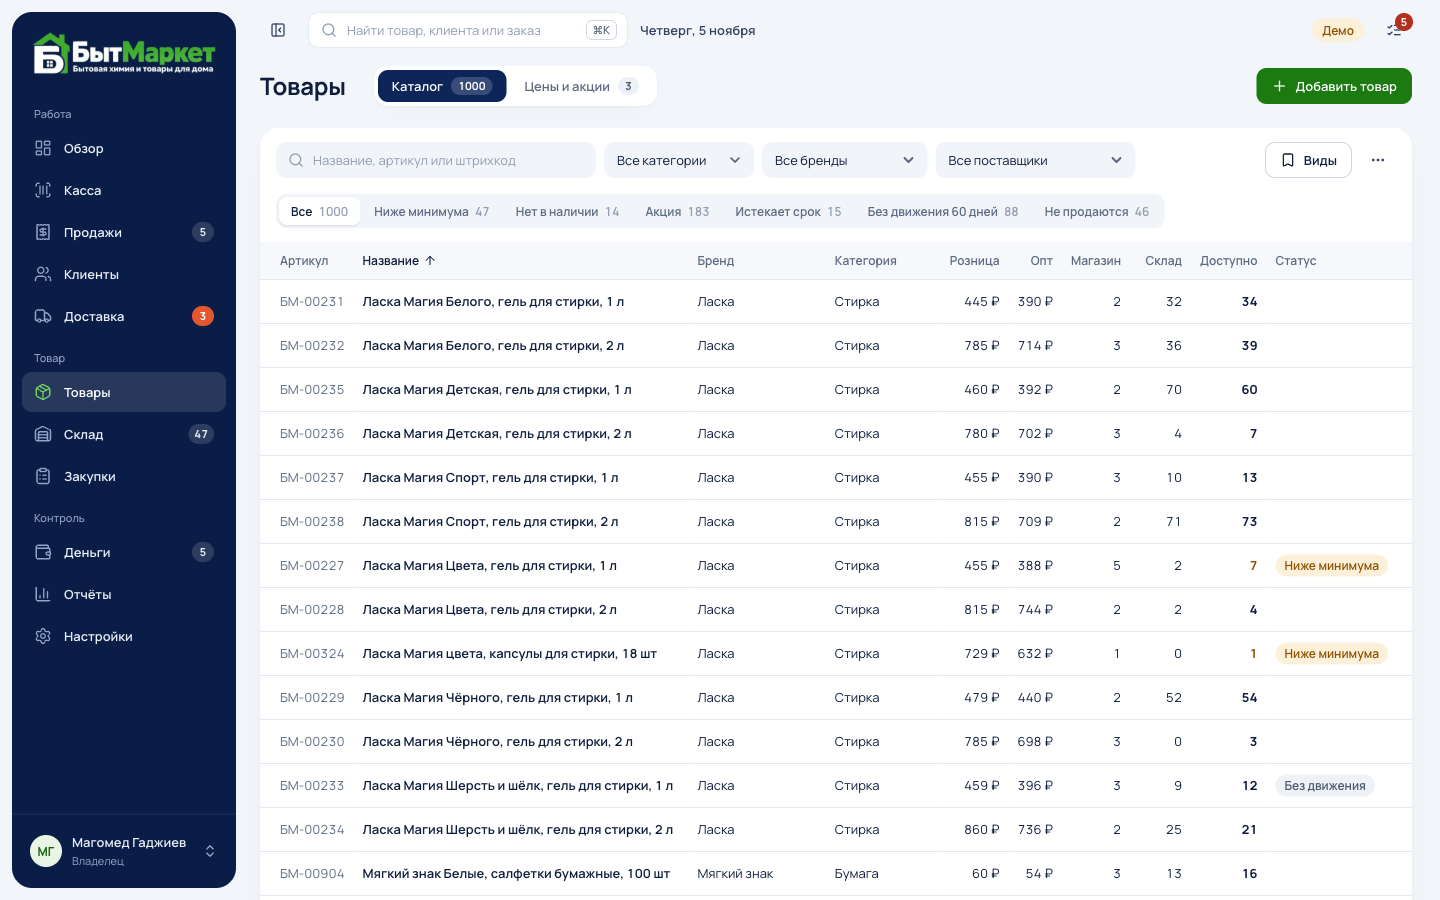
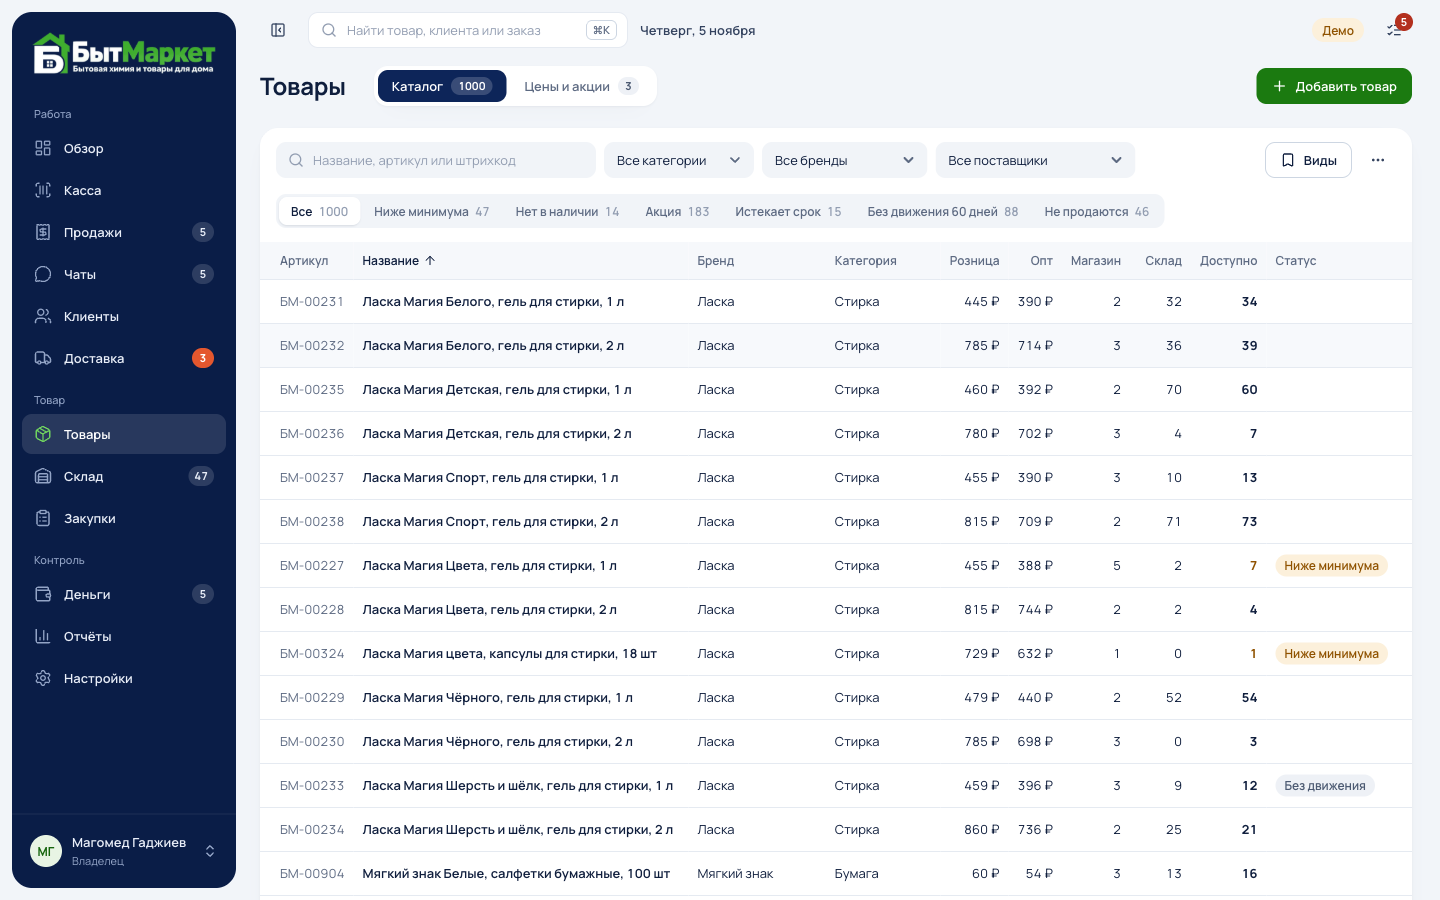
Чаты — отдельный пункт меню со счётчиком новых сообщений
Раньше переписка была вкладкой внутри «Продаж» и её трудно было найти.
Старый адрес /sales/chats ведёт в новый раздел с выбранным клиентом.

diff --git a/web/src/sections/sales/ChatsPage.tsx b/web/src/sections/sales/ChatsPage.tsx
@@ -1,7 +1,7 @@
 /* Вкладка «Чаты»: WhatsApp магазина. Живая переписка, автосообщения о заказах, вложения,
    разбор заказа из сообщения клиента. Пример подключения: сообщения хранятся в программе и наружу не уходят. */
 import { useEffect, useMemo, useRef, useState } from 'react';
-import { useSearchParams } from 'react-router-dom';
+import { useNavigate, useSearchParams } from 'react-router-dom';
 import { ArrowLeft, BellRing, Check, CheckCheck, FileSpreadsheet, FileText, ListPlus, MessageCircle, Paperclip, Plus, Send, Store, Zap } from 'lucide-react';
 import type { Chat, ChatMessage, ID } from '../../data/types';
 import { CLIENT_SEGMENT_NAMES } from '../../data/types';
@@ -16,7 +16,6 @@ import { NewOrderDrawer } from './NewOrderDrawer';
 import { useSalesOrders } from './salesScope';
 import { capitalize, fixNo, norm, useIsPhone } from './lib';
 import { shownOverdue } from './parts';
-import { useTabCounts } from './tabCounts';
 import { FileChip, SendInvoiceModal, SendWhatsAppModal, type SendWhatsAppProps } from './SendInvoiceModal';
 import { WA_AUTO_META, actFile, priceFile, textReminder, waReadState } from '../../data/whatsapp';
 import { parseOrderText, type ParsedOrder } from '../../data/orderText';
@@ -40,7 +39,7 @@ export default function ChatsPage() {
   const { me, can, role } = useSession();
   const { chats, isMine } = useScoped();
   const isManager = role === 'manager';
-  const counts = useTabCounts();
+  const navigate = useNavigate();
   const phone = useIsPhone();
   const openEntity = useOpenEntity();
   const [params, setParams] = useSearchParams();
@@ -166,7 +165,17 @@ export default function ChatsPage() {
 
   return (
     <>
-      <PageHeader section="sales" counts={counts} />
+      <PageHeader
+        section="chats"
+        actions={
+          <>
+            <Chip tone="green" icon={<MessageCircle />}>
+              WhatsApp {fmt.phone(wa.phone)}
+            </Chip>
+            {role === 'owner' ? <Button onClick={() => navigate('/settings/integrations')}>Настройки WhatsApp</Button> : null}
+          </>
+        }
+      />
       {!wa.connected ? (
         <Notice tone="warn" title="WhatsApp отключён">
           Новые сообщения не приходят, автосообщения клиентам не отправляются. Подключение — в настройках, раздел «Подключения».

diff --git a/web/src/sections/clients/ClientDrawer.tsx b/web/src/sections/clients/ClientDrawer.tsx
@@ -1,7 +1,6 @@
 import { useMemo, useState, type ReactNode } from 'react';
 import { CalendarPlus, ExternalLink, ListPlus, MapPin, MessageCircle, Pencil, Phone, Plus, ShoppingCart, UserRound, Wallet } from 'lucide-react';
 import { useNavigate } from 'react-router-dom';
-import { tabsFor } from '../../shell/nav';
 import type { EntityDrawerProps } from '../../shell/entities';
 import { EntityLink, useOpenEntity } from '../../shell/entities';
 import { TaskModal } from '../../shell/TaskModal';
@@ -47,7 +46,7 @@ type TabKey = 'overview' | 'orders' | 'payments' | 'points' | 'visits' | 'tasks'
 export default function EntityDrawer({ id, onClose }: EntityDrawerProps) {
   const db = useDB();
   const version = useDBVersion();
-  const { me, role, can } = useSession();
+  const { me, role, can, sees } = useSession();
   const navigate = useNavigate();
   const scoped = useScoped();
   const phone = useIsPhone();
@@ -97,7 +96,7 @@ export default function EntityDrawer({ id, onClose }: EntityDrawerProps) {
   const canEdit = can('editClients');
   const tel = telUrl(c.phone);
   // переписку открывают те, у кого есть вкладка «Чаты»: владелец, менеджер, представитель
-  const canChat = db.settings.whatsapp.connected && !!c.phone && tabsFor('sales', role).some((t) => t.key === 'chats');
+  const canChat = db.settings.whatsapp.connected && !!c.phone && sees('chats');
   const hasChat = db.chats.some((x) => x.clientId === c.id);
 
   const secondary = [
@@ -152,7 +151,7 @@ export default function EntityDrawer({ id, onClose }: EntityDrawerProps) {
           </a>
         ) : null}
         {canChat ? (
-          <button type="button" className="row cl-tel cl-wa" style={{ gap: 6 }} onClick={() => navigate(`/sales/chats?client=${c.id}`)}>
+          <button type="button" className="row cl-tel cl-wa" style={{ gap: 6 }} onClick={() => navigate(`/chats?client=${c.id}`)}>
             <MessageCircle size={15} />
             {hasChat ? 'Переписка в WhatsApp' : 'Написать в WhatsApp'}
           </button>

diff --git a/web/src/roles/roles.ts b/web/src/roles/roles.ts
@@ -5,6 +5,7 @@ export type SectionKey =
   | 'overview'
   | 'register'
   | 'sales'
+  | 'chats'
   | 'clients'
   | 'products'
   | 'stock'
@@ -62,7 +63,7 @@ export interface RoleMeta {
   perms: Perm[];
 }
 
-const ALL_SECTIONS: SectionKey[] = ['overview', 'register', 'sales', 'clients', 'products', 'stock', 'purchases', 'money', 'delivery', 'reports', 'settings'];
+const ALL_SECTIONS: SectionKey[] = ['overview', 'register', 'sales', 'chats', 'clients', 'products', 'stock', 'purchases', 'money', 'delivery', 'reports', 'settings'];
 
 const ALL_PERMS: Perm[] = [
   'seeCost', 'seeProfit', 'editPrices', 'editCatalog', 'editClients', 'allClients', 'createOrder', 'createRequest', 'confirmOrder', 'cancelOrder',
@@ -99,7 +100,7 @@ export const ROLES: Record<RoleKey, RoleMeta> = {
     about: 'Свои оптовые клиенты, заказы, резервы и оплаты',
     sees: 'своих клиентов, их заказы, долги и доставки',
     mobile: false,
-    sections: ['overview', 'sales', 'clients', 'products', 'delivery', 'money'],
+    sections: ['overview', 'sales', 'chats', 'clients', 'products', 'delivery', 'money'],
     perms: ['editClients', 'createOrder', 'createRequest', 'confirmOrder', 'cancelOrder', 'shipOrder', 'acceptPayment', 'planVisits', 'export'],
   },
   rep: {
@@ -109,7 +110,7 @@ export const ROLES: Record<RoleKey, RoleMeta> = {
     about: 'Мой день: визиты по точкам, заявки, долги клиентов',
     sees: 'только закреплённые точки и свои заявки',
     mobile: true,
-    sections: ['overview', 'clients', 'sales', 'products'],
+    sections: ['overview', 'clients', 'sales', 'chats', 'products'],
     perms: ['createRequest', 'planVisits'],
   },
   accountant: {

diff --git a/web/src/sections/sales/routes.tsx b/web/src/sections/sales/routes.tsx
@@ -1,24 +1,28 @@
 import { lazy, Suspense } from 'react';
-import { Navigate, Route, Routes } from 'react-router-dom';
+import { Navigate, Route, Routes, useLocation } from 'react-router-dom';
 import { useSession } from '../../roles/session';
 import { SectionLoading } from '../../shell/SectionFrame';
 import OrdersPage from './OrdersPage';
 import './sales.css';
 
 const ReturnsPage = lazy(() => import('./ReturnsPage'));
-const ChatsPage = lazy(() => import('./ChatsPage'));
 
-/** Раздел «Продажи»: Заказы · Возвраты · Чаты (вкладки по ролям настроены в PageHeader). */
+/** Старый адрес вкладки «Чаты» ведёт в отдельный раздел, с выбранным клиентом. */
+function ToChats() {
+  const { search } = useLocation();
+  return <Navigate to={`/chats${search}`} replace />;
+}
+
+/** Раздел «Продажи»: Заказы · Возвраты (вкладки по ролям настроены в PageHeader). Чаты — отдельный раздел /chats. */
 export default function Section() {
   const { role } = useSession();
   const returns = role === 'owner' || role === 'manager' || role === 'accountant';
-  const chats = role === 'owner' || role === 'manager' || role === 'rep';
   return (
     <Suspense fallback={<SectionLoading />}>
       <Routes>
         <Route index element={<OrdersPage />} />
         <Route path="returns" element={returns ? <ReturnsPage /> : <Navigate to="/sales" replace />} />
-        <Route path="chats" element={chats ? <ChatsPage /> : <Navigate to="/sales" replace />} />
+        <Route path="chats" element={<ToChats />} />
         <Route path="*" element={<Navigate to="/sales" replace />} />
       </Routes>
     </Suspense>

diff --git a/web/src/shell/nav.ts b/web/src/shell/nav.ts
@@ -1,6 +1,6 @@
-/* Меню: 11 пунктов, вкладки внутри разделов. Утверждено в docs/10-audit-and-plan.md. */
+/* Меню: 12 пунктов, вкладки внутри разделов. Утверждено в docs/10-audit-and-plan.md; «Чаты» вынесены из «Продаж» отдельным пунктом (шаг 6). */
 import type { LucideIcon } from 'lucide-react';
-import { BarChart3, ClipboardList, LayoutDashboard, Package, Receipt, ScanBarcode, Settings, Truck, Users, Wallet, Warehouse } from 'lucide-react';
+import { BarChart3, ClipboardList, LayoutDashboard, MessageCircle, Package, Receipt, ScanBarcode, Settings, Truck, Users, Wallet, Warehouse } from 'lucide-react';
 import type { RoleKey } from '../data/types';
 import type { SectionKey } from '../roles/roles';
 
@@ -53,8 +53,15 @@ export const SECTIONS: SectionDef[] = [
     tabs: [
       { key: 'orders', label: 'Заказы', path: '/sales' },
       { key: 'returns', label: 'Возвраты', path: '/sales/returns', roles: ['owner', 'manager', 'accountant'] },
-      { key: 'chats', label: 'Чаты', path: '/sales/chats', roles: ['owner', 'manager', 'rep'] },
     ],
+  },
+  {
+    key: 'chats',
+    label: 'Чаты',
+    icon: MessageCircle,
+    group: 'Работа',
+    path: '/chats',
+    tabs: [{ key: 'all', label: 'Чаты', path: '/chats' }],
   },
   {
     key: 'clients',

diff --git a/web/scripts/demo-shots.js b/web/scripts/demo-shots.js
@@ -33,7 +33,7 @@ async (page) => {
     ['14-представитель-мой-день-телефон', 'rep', '/overview', PHONE],
     ['15-курьер-сегодня-телефон', 'courier', '/overview', PHONE],
     ['16-клиенты-1280', 'manager', '/clients', { width: 1280, height: 800 }],
-    ['17-новый-оптовый-заказ', 'manager', '/sales/chats', DESK, async (p) => {
+    ['17-новый-оптовый-заказ', 'manager', '/chats', DESK, async (p) => {
       await p.locator('.wa-parse').first().click();
       await p.waitForTimeout(900);
     }],
@@ -45,7 +45,7 @@ async (page) => {
       await p.locator('.table tbody tr').first().click();
       await p.waitForTimeout(900);
     }],
-    ['20-whatsapp-чаты', 'manager', '/sales/chats'],
+    ['20-whatsapp-чаты', 'manager', '/chats'],
     ['21-whatsapp-подключение', 'owner', '/settings/integrations', { width: 1440, height: 1000 }],
   ];
   const report = [];

diff --git a/web/src/sections/sales/chatsRoutes.tsx b/web/src/sections/sales/chatsRoutes.tsx
@@ -1,0 +1,18 @@
+/* Раздел «Чаты» (WhatsApp магазина): отдельный пункт меню. Страница та же, что раньше была вкладкой «Продаж». */
+import { lazy, Suspense } from 'react';
+import { Navigate, Route, Routes } from 'react-router-dom';
+import { SectionLoading } from '../../shell/SectionFrame';
+import './sales.css';
+
+const ChatsPage = lazy(() => import('./ChatsPage'));
+
+export default function ChatsSection() {
+  return (
+    <Suspense fallback={<SectionLoading />}>
+      <Routes>
+        <Route index element={<ChatsPage />} />
+        <Route path="*" element={<Navigate to="/chats" replace />} />
+      </Routes>
+    </Suspense>
+  );
+}

diff --git a/web/src/shell/Layout.tsx b/web/src/shell/Layout.tsx
@@ -54,6 +54,10 @@ function useNavBadges(): Partial<Record<SectionKey, { n: number; alert?: boolean
       const pend = db.payments.filter((p) => p.status !== 'posted').length;
       if (pend) res.money = { n: pend };
     }
+    if (['owner', 'manager', 'rep'].includes(role)) {
+      const unread = scoped.chats.filter((c) => c.unread > 0).length;
+      if (unread) res.chats = { n: unread };
+    }
     if (role === 'rep') {
       const left = scoped.visits.filter((v) => v.date === today && v.state === 'planned').length;
       if (left) res.overview = { n: left };

diff --git a/web/src/App.tsx b/web/src/App.tsx
@@ -10,6 +10,7 @@ const SECTION_MODULES: Record<SectionKey, LazyExoticComponent<ComponentType>> = 
   overview: lazy(() => import('./sections/overview')),
   register: lazy(() => import('./sections/register/routes')),
   sales: lazy(() => import('./sections/sales/routes')),
+  chats: lazy(() => import('./sections/sales/chatsRoutes')),
   clients: lazy(() => import('./sections/clients/routes')),
   products: lazy(() => import('./sections/products/routes')),
   stock: lazy(() => import('./sections/stock/routes')),

diff --git a/web/src/sections/settings/WhatsAppCard.tsx b/web/src/sections/settings/WhatsAppCard.tsx
@@ -129,7 +129,7 @@ export function WhatsAppCard() {
         </div>
       </div>
       <div className="set-int-foot">
-        <Button onClick={() => navigate('/sales/chats')}>Открыть чаты</Button>
+        <Button onClick={() => navigate('/chats')}>Открыть чаты</Button>
         {isOwner ? (
           wa.connected ? (
             <ConfirmButton variant="ghost" confirmText="Отключить WhatsApp?" onConfirm={() => connect(false)}>

diff --git a/docs/12-demo-v2.md b/docs/12-demo-v2.md
@@ -39,7 +39,8 @@
 |---|---|
 | Обзор | Владелец: период и сравнение, продажи с планом, прибыль и маржа, деньги, долги покупателей и поставщикам, график, сигналы. «Требует внимания»: 8 видов сигналов с причиной, цифрами, ответственным и действием. У остальных ролей — свой рабочий стол |
 | Касса | Поиск и сканер, упаковки, акции, скидка с основанием в пределах роли, наличные / карта / смешанная со сдачей, печать чека, возврат по чеку, смена с пересчётом наличных, архив чеков |
-| Продажи | Заказы с отдельными состояниями «Заказ / Сборка / Отгрузка / Оплата» и долгом. Новый заказ в боковой панели с условиями клиента и упаковками. Повтор с «было → стало», заявки представителей без резерва, карточка заказа с шагами, счёт и накладная на печать, возвраты, чаты WhatsApp (см. ниже) |
+| Продажи | Заказы с отдельными состояниями «Заказ / Сборка / Отгрузка / Оплата» и долгом. Новый заказ в боковой панели с условиями клиента и упаковками. Повтор с «было → стало», заявки представителей без резерва, карточка заказа с шагами, счёт и накладная на печать, возвраты |
+| Чаты | Отдельный пункт меню: переписка WhatsApp магазина (см. ниже) |
 | Клиенты | Список с долгом, просрочкой, лимитом и «пропустил привычный заказ». Карточка с точками, контактами, заказами, оплатами, визитами, историей. Представители и визиты. «Мой день» представителя на телефоне |
 | Товары | Каталог на 1000 позиций, карточка (остатки, движения, продажи), цены и акции с проверкой наценки, каталог на телефоне |
 | Склад | Остатки по местам (факт, резерв, доступно, ожидается, карантин), документы на несколько строк со сканером, пересчёт, сборка, карантин |
@@ -51,7 +52,7 @@
 
 ## WhatsApp (пример подключения)
 Показано, как будет работать подключённый WhatsApp магазина. Сообщения сохраняются в программе и никуда не отправляются.
-- **Чаты** («Продажи» → «Чаты»): все диалоги магазина, фильтры «Новые» и «Ждут ответа», у менеджера — «Только мои клиенты». Галочки «доставлено / прочитано», вложения (счёт, акт сверки, прайс), быстрые ответы.
+- **Чаты** — отдельный пункт меню со счётчиком новых сообщений (у владельца, менеджера и представителя): все диалоги магазина, фильтры «Новые» и «Ждут ответа», у менеджера — «Только мои клиенты». Галочки «доставлено / прочитано», вложения (счёт, акт сверки, прайс), быстрые ответы.
 - **Автосообщения** уходят сами по событиям: заказ принят, заказ собран к самовывозу, курьер выехал (с телефоном курьера и суммой к оплате), заказ доставлен, оплата получена, ответ вне рабочего времени.
 - **«Разобрать в заказ».** Клиент пишет список своими словами — программа находит товары в каталоге, подставляет коробки и количество в новый заказ и показывает, что не нашлось или что стоит проверить.
 - **Отправить клиенту** — счёт из карточки заказа, напоминание о долге с актом сверки из «Долгов покупателей», прайс и акт из чата. Перед отправкой видно получателя, номер, вложение и текст.
